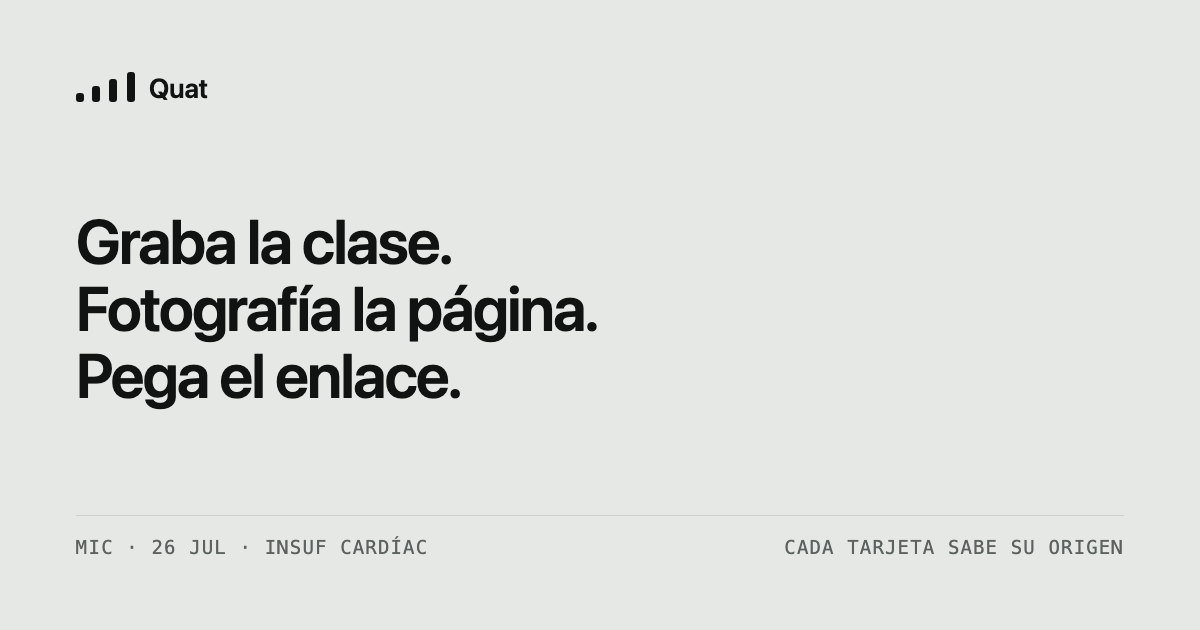
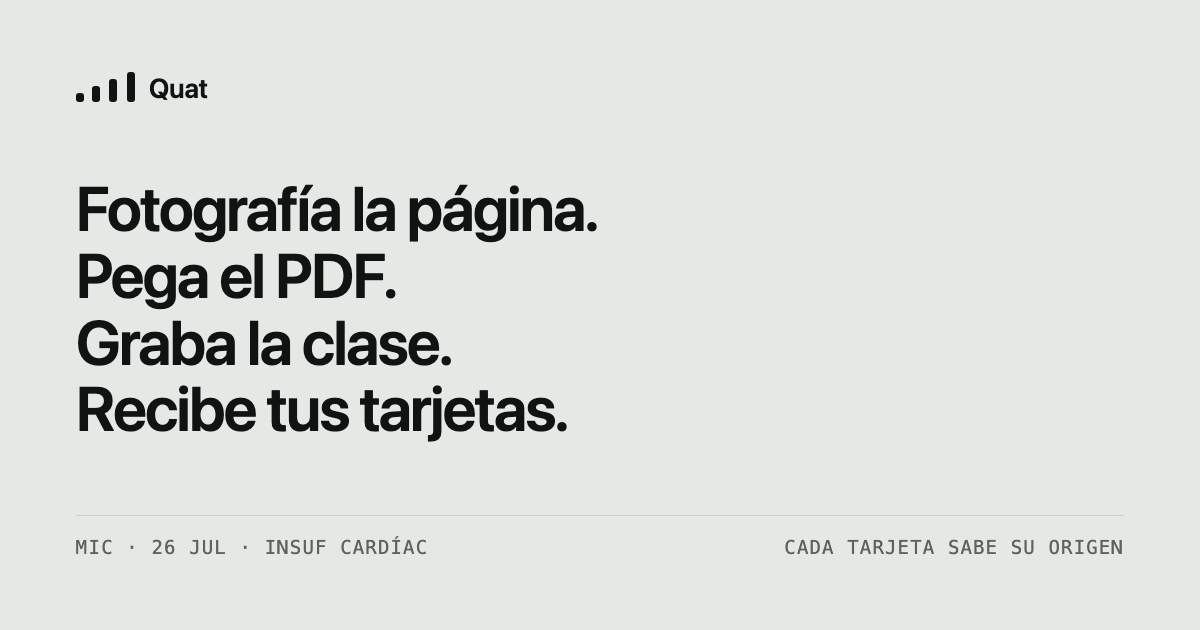
Quat: landing sentence leads on photos and PDFs, recording last

Changed region(s): [[0.0617, 0.2714, 0.4933, 0.6937]]

diff --git a/quat/es/index.html b/quat/es/index.html
@@ -2,11 +2,11 @@
 <html lang="es"><head>
 <meta charset="utf-8">
 <meta name="viewport" content="width=device-width, initial-scale=1">
-<title>Quat — captúralo y deja que te evalúe</title>
+<title>Quat — apuntes, PDFs y fotos a flashcards</title>
 <meta name="description" content="Graba la clase, fotografía la página, pega el enlace — Quat convierte lo que capturaste en tarjetas que te evalúan, y cada tarjeta sabe de dónde viene. Gratis en iPhone y iPad, sin cuenta.">
 <meta name="color-scheme" content="light dark">
 <meta property="og:type" content="website">
-<meta property="og:title" content="Quat — captúralo y deja que te evalúe">
+<meta property="og:title" content="Quat — apuntes, PDFs y fotos a flashcards">
 <meta property="og:description" content="Graba la clase, fotografía la página, pega el enlace — Quat convierte lo que capturaste en tarjetas que te evalúan, y cada tarjeta sabe de dónde viene. Gratis en iPhone y iPad, sin cuenta.">
 <meta property="og:url" content="https://yuvibabbar-dev.github.io/quat/es/">
 <meta property="og:image" content="https://yuvibabbar-dev.github.io/quat/es/og.png">
@@ -233,7 +233,7 @@ body.landing { padding: 0 20px 72px; }
 </style>
 </head><body class="landing"><main>
 <header class="site"><div class="brand"><div class="mark"><i></i><i></i><i></i><i></i></div><span class="word">Quat</span></div><nav class="top-links"><a class="top-link" href="../" lang="en">English</a><a class="top-link" href="https://apps.apple.com/app/id6797544518">App Store</a></nav></header>
-<section class="hero"><p class="eyebrow">iPhone y iPad · Gratis · Sin cuenta</p><h1><span>Graba la clase.</span><span>Fotografía la página.</span><span>Pega el enlace.</span></h1><p class="lead">Se convierte en tarjetas que te evalúan, y cada tarjeta sabe de dónde viene.</p><p class="cta"><a class="btn" href="https://apps.apple.com/app/id6797544518">Descarga Quat en el App Store</a></p><p class="cta-note">Repasar, exámenes y juegos son gratis sin límite.</p></section>
+<section class="hero"><p class="eyebrow">iPhone y iPad · Gratis · Sin cuenta</p><h1><span>Fotografía la página.</span><span>Pega el PDF.</span><span>Graba la clase.</span><span>Recibe tus tarjetas.</span></h1><p class="lead">Se convierte en tarjetas que te evalúan, y cada tarjeta sabe de dónde viene.</p><p class="cta"><a class="btn" href="https://apps.apple.com/app/id6797544518">Descarga Quat en el App Store</a></p><p class="cta-note">Repasar, exámenes y juegos son gratis sin límite.</p></section>
 <section class="sec" id="de-donde-viene-una-tarjeta"><h2>De dónde viene una tarjeta</h2>
 <p>Las tarjetas llevan su origen: qué la capturó, el día en que llegó y el apunte del que salió. Semanas después, cuando una tarjeta aparece y no la ubicas, puedes volver a la fuente de la que salió.</p><fieldset class="device"><legend class="sr-only">Elige qué capturó la tarjeta</legend><input class="src" type="radio" name="src" id="src0" checked><input class="src" type="radio" name="src" id="src1"><input class="src" type="radio" name="src" id="src2"><div class="seg"><label for="src0">Grabación</label><label for="src1">Foto</label><label for="src2">Enlace</label></div><div class="face"><div class="card" data-src="0"><div class="q">La precarga es el volumen que el ventrículo contiene al ______</div><div class="rule"></div><div class="a">final de la diástole</div><div class="stamp"><span>MIC · 26 JUL · INSUF CARDÍAC</span><span>facilidad 250</span></div></div><div class="card" data-src="1"><div class="q">¿Qué clase de fármacos termina en -olol y qué bloquea?</div><div class="rule"></div><div class="a">Betabloqueantes — receptores β-adrenérgicos</div><div class="stamp"><span>SCAN · 02 AGO · FARMACO P.21</span><span>facilidad 240</span></div></div><div class="card" data-src="2"><div class="q">¿Qué incluye el paquete de la primera hora de sepsis?</div><div class="rule"></div><div class="a">Lactato, cultivos, antibióticos, líquidos</div><div class="stamp"><span>LINK · 05 AGO · PAQUETE SEPS</span><span>facilidad 260</span></div></div></div><div class="keys"><div class="key k-again"><b>Otra vez</b><i>ahora</i></div><div class="key k-hard"><b>Difícil</b><i>12h</i></div><div class="key k-good"><b>Bien</b><i>1d</i></div><div class="key k-easy"><b>Fácil</b><i>4d</i></div></div></fieldset><p class="caption">La línea al pie de la tarjeta es la fuente. Va en cada tarjeta, en cada sesión. Los cuatro botones muestran lo que harán antes de que los presiones.</p>
 </section>

diff --git a/quat/index.html b/quat/index.html
@@ -2,11 +2,11 @@
 <html lang="en"><head>
 <meta charset="utf-8">
 <meta name="viewport" content="width=device-width, initial-scale=1">
-<title>Quat — capture it, then be tested on it</title>
+<title>Quat — lecture notes, PDFs and photos to flashcards</title>
 <meta name="description" content="Record the lecture, photograph the page, paste the link — Quat turns what you captured into flashcards that test you, and every card knows where it came from. Free on iPhone and iPad, no account.">
 <meta name="color-scheme" content="light dark">
 <meta property="og:type" content="website">
-<meta property="og:title" content="Quat — capture it, then be tested on it">
+<meta property="og:title" content="Quat — lecture notes, PDFs and photos to flashcards">
 <meta property="og:description" content="Record the lecture, photograph the page, paste the link — Quat turns what you captured into flashcards that test you, and every card knows where it came from. Free on iPhone and iPad, no account.">
 <meta property="og:url" content="https://yuvibabbar-dev.github.io/quat/">
 <meta property="og:image" content="https://yuvibabbar-dev.github.io/quat/og.png">
@@ -233,7 +233,7 @@ body.landing { padding: 0 20px 72px; }
 </style>
 </head><body class="landing"><main>
 <header class="site"><div class="brand"><div class="mark"><i></i><i></i><i></i><i></i></div><span class="word">Quat</span></div><nav class="top-links"><a class="top-link" href="es/" lang="es">Español</a><a class="top-link" href="https://apps.apple.com/app/id6797544518">App Store</a></nav></header>
-<section class="hero"><p class="eyebrow">iPhone and iPad · Free · No account</p><h1><span>Record the lecture.</span><span>Photograph the page.</span><span>Paste the link.</span></h1><p class="lead">It becomes cards that test you, and every card knows where it came from.</p><p class="cta"><a class="btn" href="https://apps.apple.com/app/id6797544518">Get Quat on the App Store</a></p><p class="cta-note">Reviewing, exams and games are free without limit.</p></section>
+<section class="hero"><p class="eyebrow">iPhone and iPad · Free · No account</p><h1><span>Photograph the page.</span><span>Paste the PDF.</span><span>Record the lecture.</span><span>Get flashcards back.</span></h1><p class="lead">It becomes cards that test you, and every card knows where it came from.</p><p class="cta"><a class="btn" href="https://apps.apple.com/app/id6797544518">Get Quat on the App Store</a></p><p class="cta-note">Reviewing, exams and games are free without limit.</p></section>
 <section class="sec" id="where-a-card-comes-from"><h2>Where a card comes from</h2>
 <p>Cards carry their origin: what captured it, the day it arrived, and the note it came from. Weeks later, when a card surfaces and you cannot place it, you can go back to the thing it came from.</p><fieldset class="device"><legend class="sr-only">Pick what captured the card</legend><input class="src" type="radio" name="src" id="src0" checked><input class="src" type="radio" name="src" id="src1"><input class="src" type="radio" name="src" id="src2"><div class="seg"><label for="src0">Recording</label><label for="src1">Photo</label><label for="src2">Link</label></div><div class="face"><div class="card" data-src="0"><div class="q">Preload is the volume the ventricle holds at ______</div><div class="rule"></div><div class="a">end-diastole</div><div class="stamp"><span>MIC · JUL 26 · HEART FAILUR</span><span>ease 250</span></div></div><div class="card" data-src="1"><div class="q">Which drug class ends in -olol, and what does it block?</div><div class="rule"></div><div class="a">Beta blockers — β-adrenergic receptors</div><div class="stamp"><span>SCAN · AUG 02 · PHARM P.214</span><span>ease 240</span></div></div><div class="card" data-src="2"><div class="q">What does the sepsis hour-one bundle include?</div><div class="rule"></div><div class="a">Lactate, cultures, antibiotics, fluids</div><div class="stamp"><span>LINK · AUG 05 · SEPSIS BUNDL</span><span>ease 260</span></div></div></div><div class="keys"><div class="key k-again"><b>Again</b><i>now</i></div><div class="key k-hard"><b>Hard</b><i>12h</i></div><div class="key k-good"><b>Good</b><i>1d</i></div><div class="key k-easy"><b>Easy</b><i>4d</i></div></div></fieldset><p class="caption">The line at the foot of the card is the source. It is on every card, in every session. The four keys print what pressing them will do before you press.</p>
 </section>
